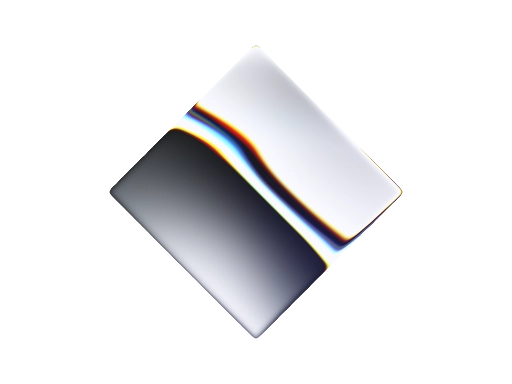
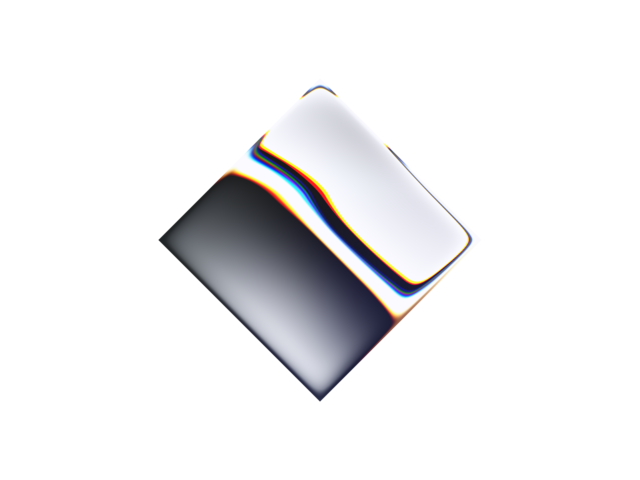
homepage thumb update

Changed region(s): [[0.2188, 0.25, 0.75, 0.875], [0.4375, 0.125, 0.7812, 0.5625]]

diff --git a/docs/src/app/home-thumbnails.ts b/docs/src/app/home-thumbnails.ts
@@ -165,7 +165,7 @@ export const homeThumbnails = [
         image: imageLiquidMetalImg,
         shaderConfig: {
           ...imageLiquidMetalPresets[0].params,
-          scale: 1.05,
+          scale: 0.9,
           suspendWhenProcessingImage: true,
           image: '/images/logos/diamond.svg',
         },
